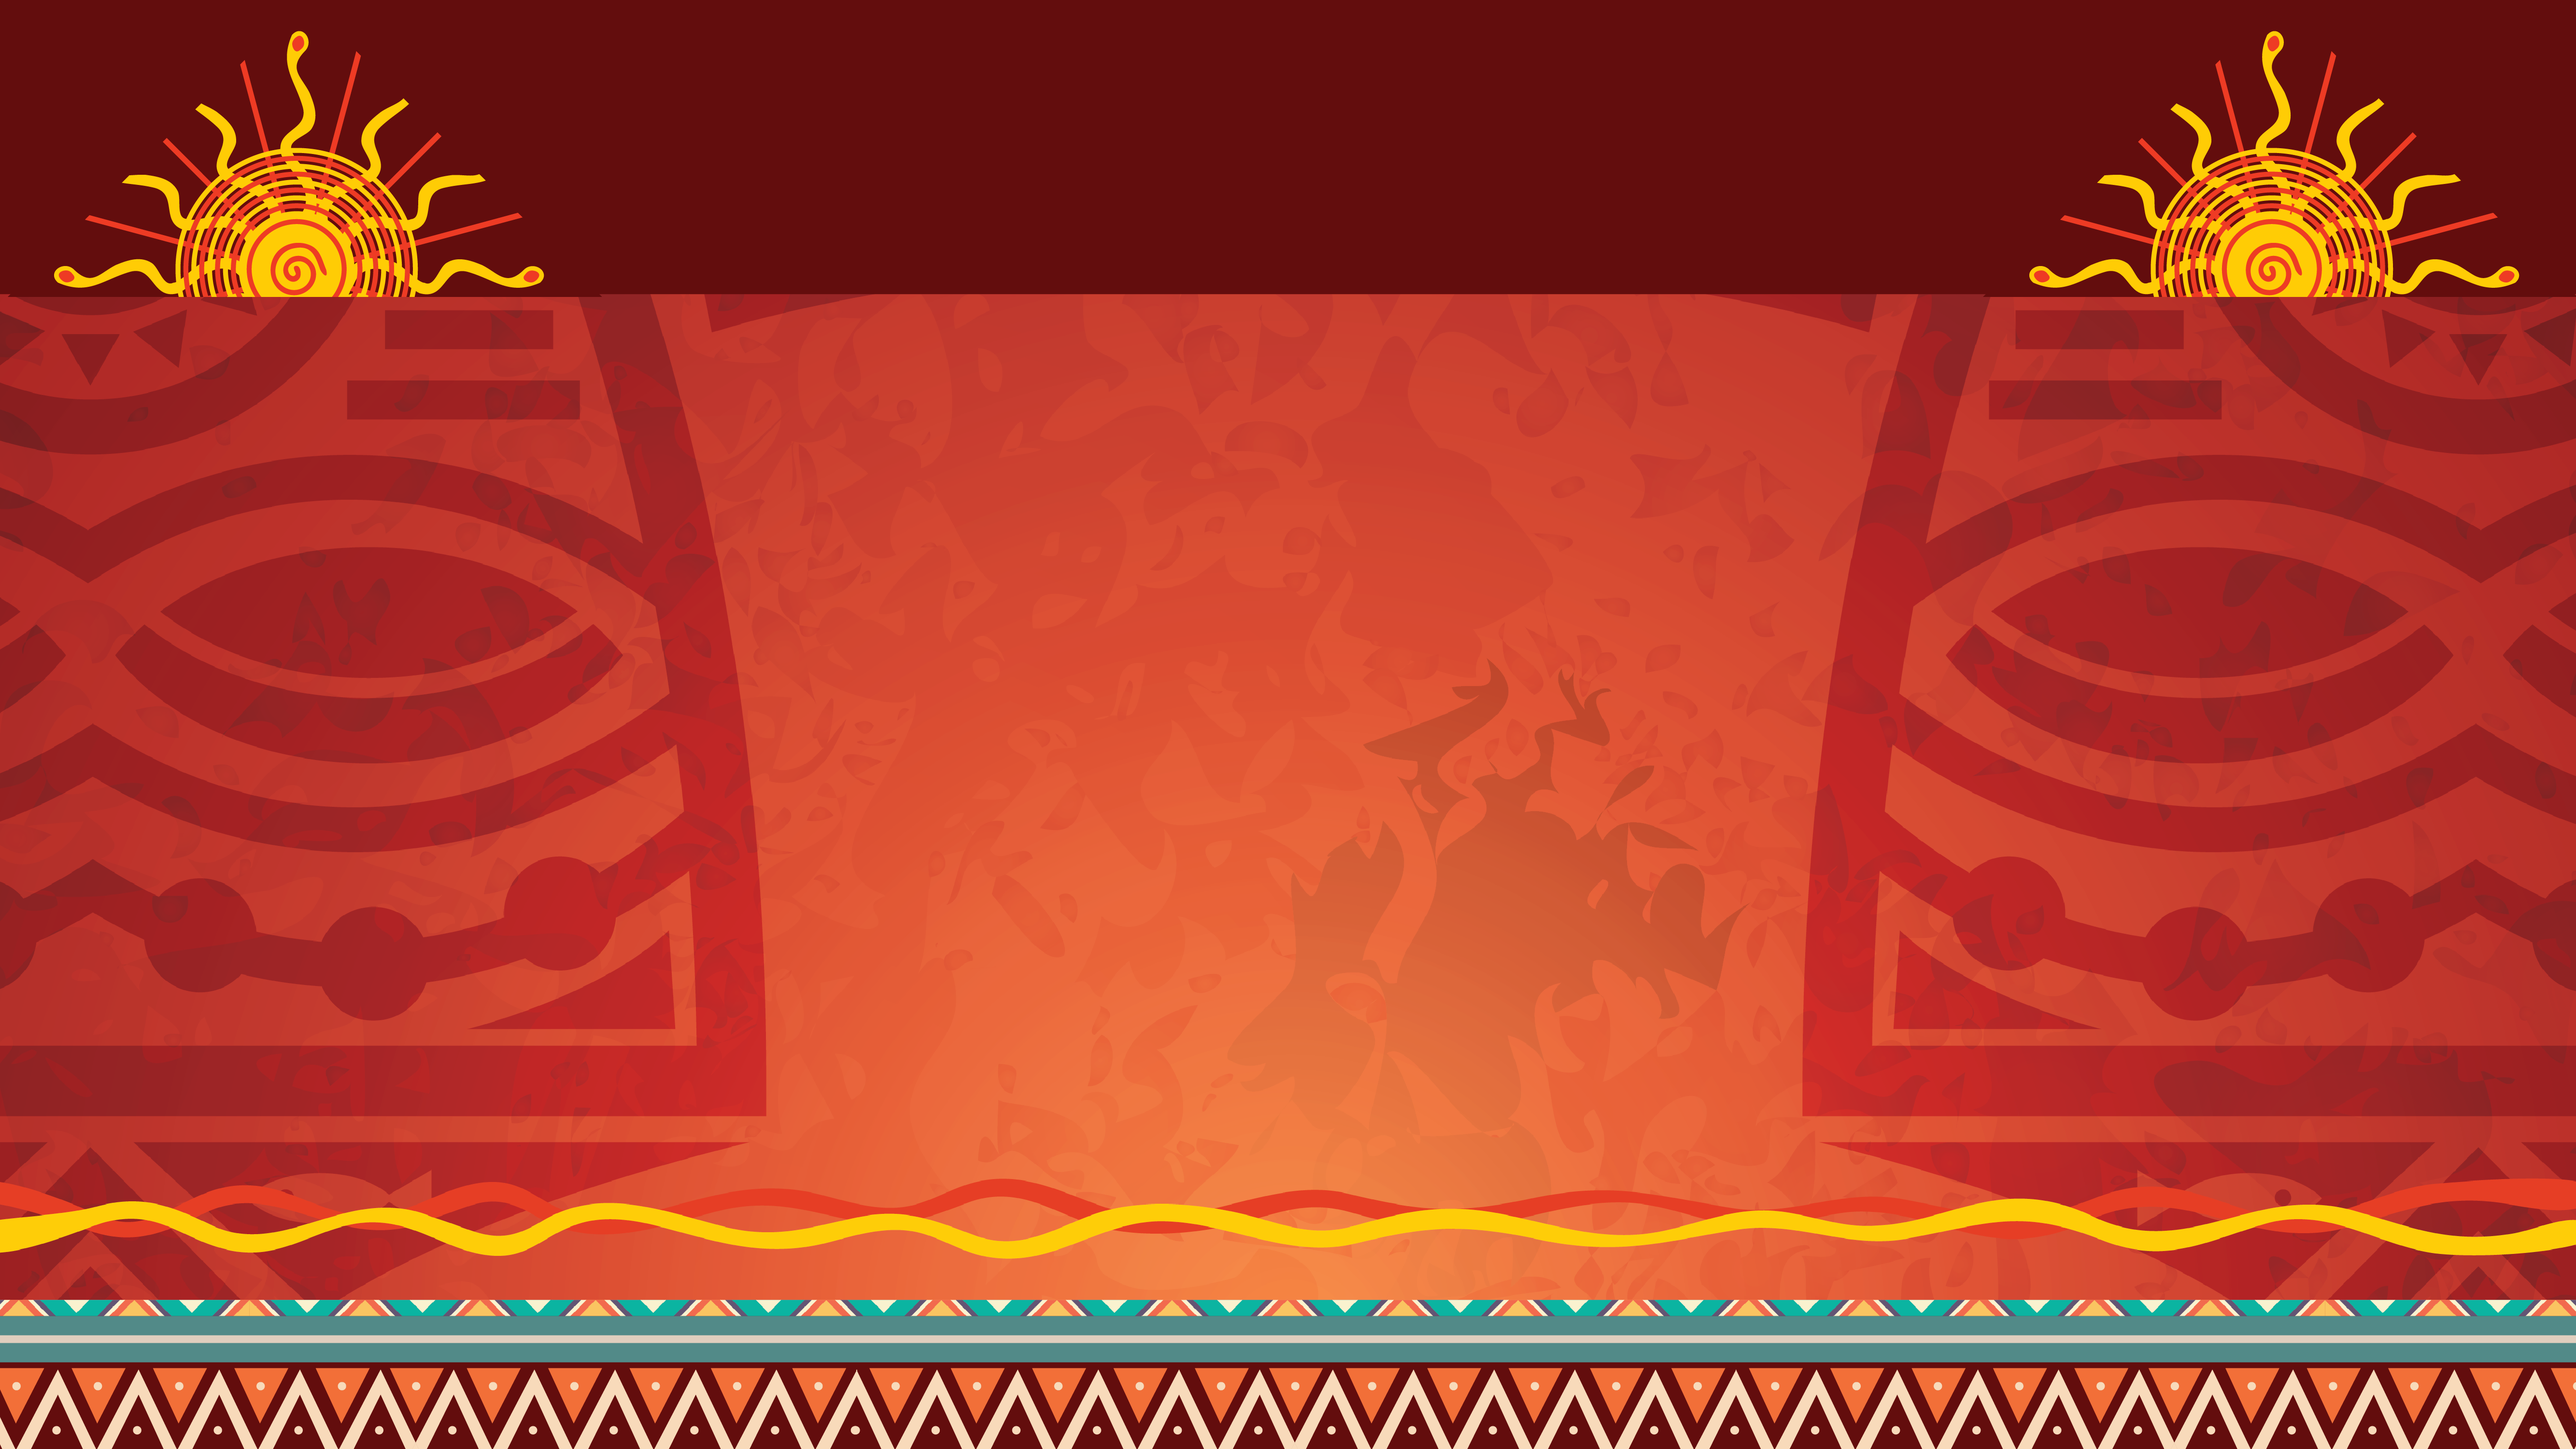
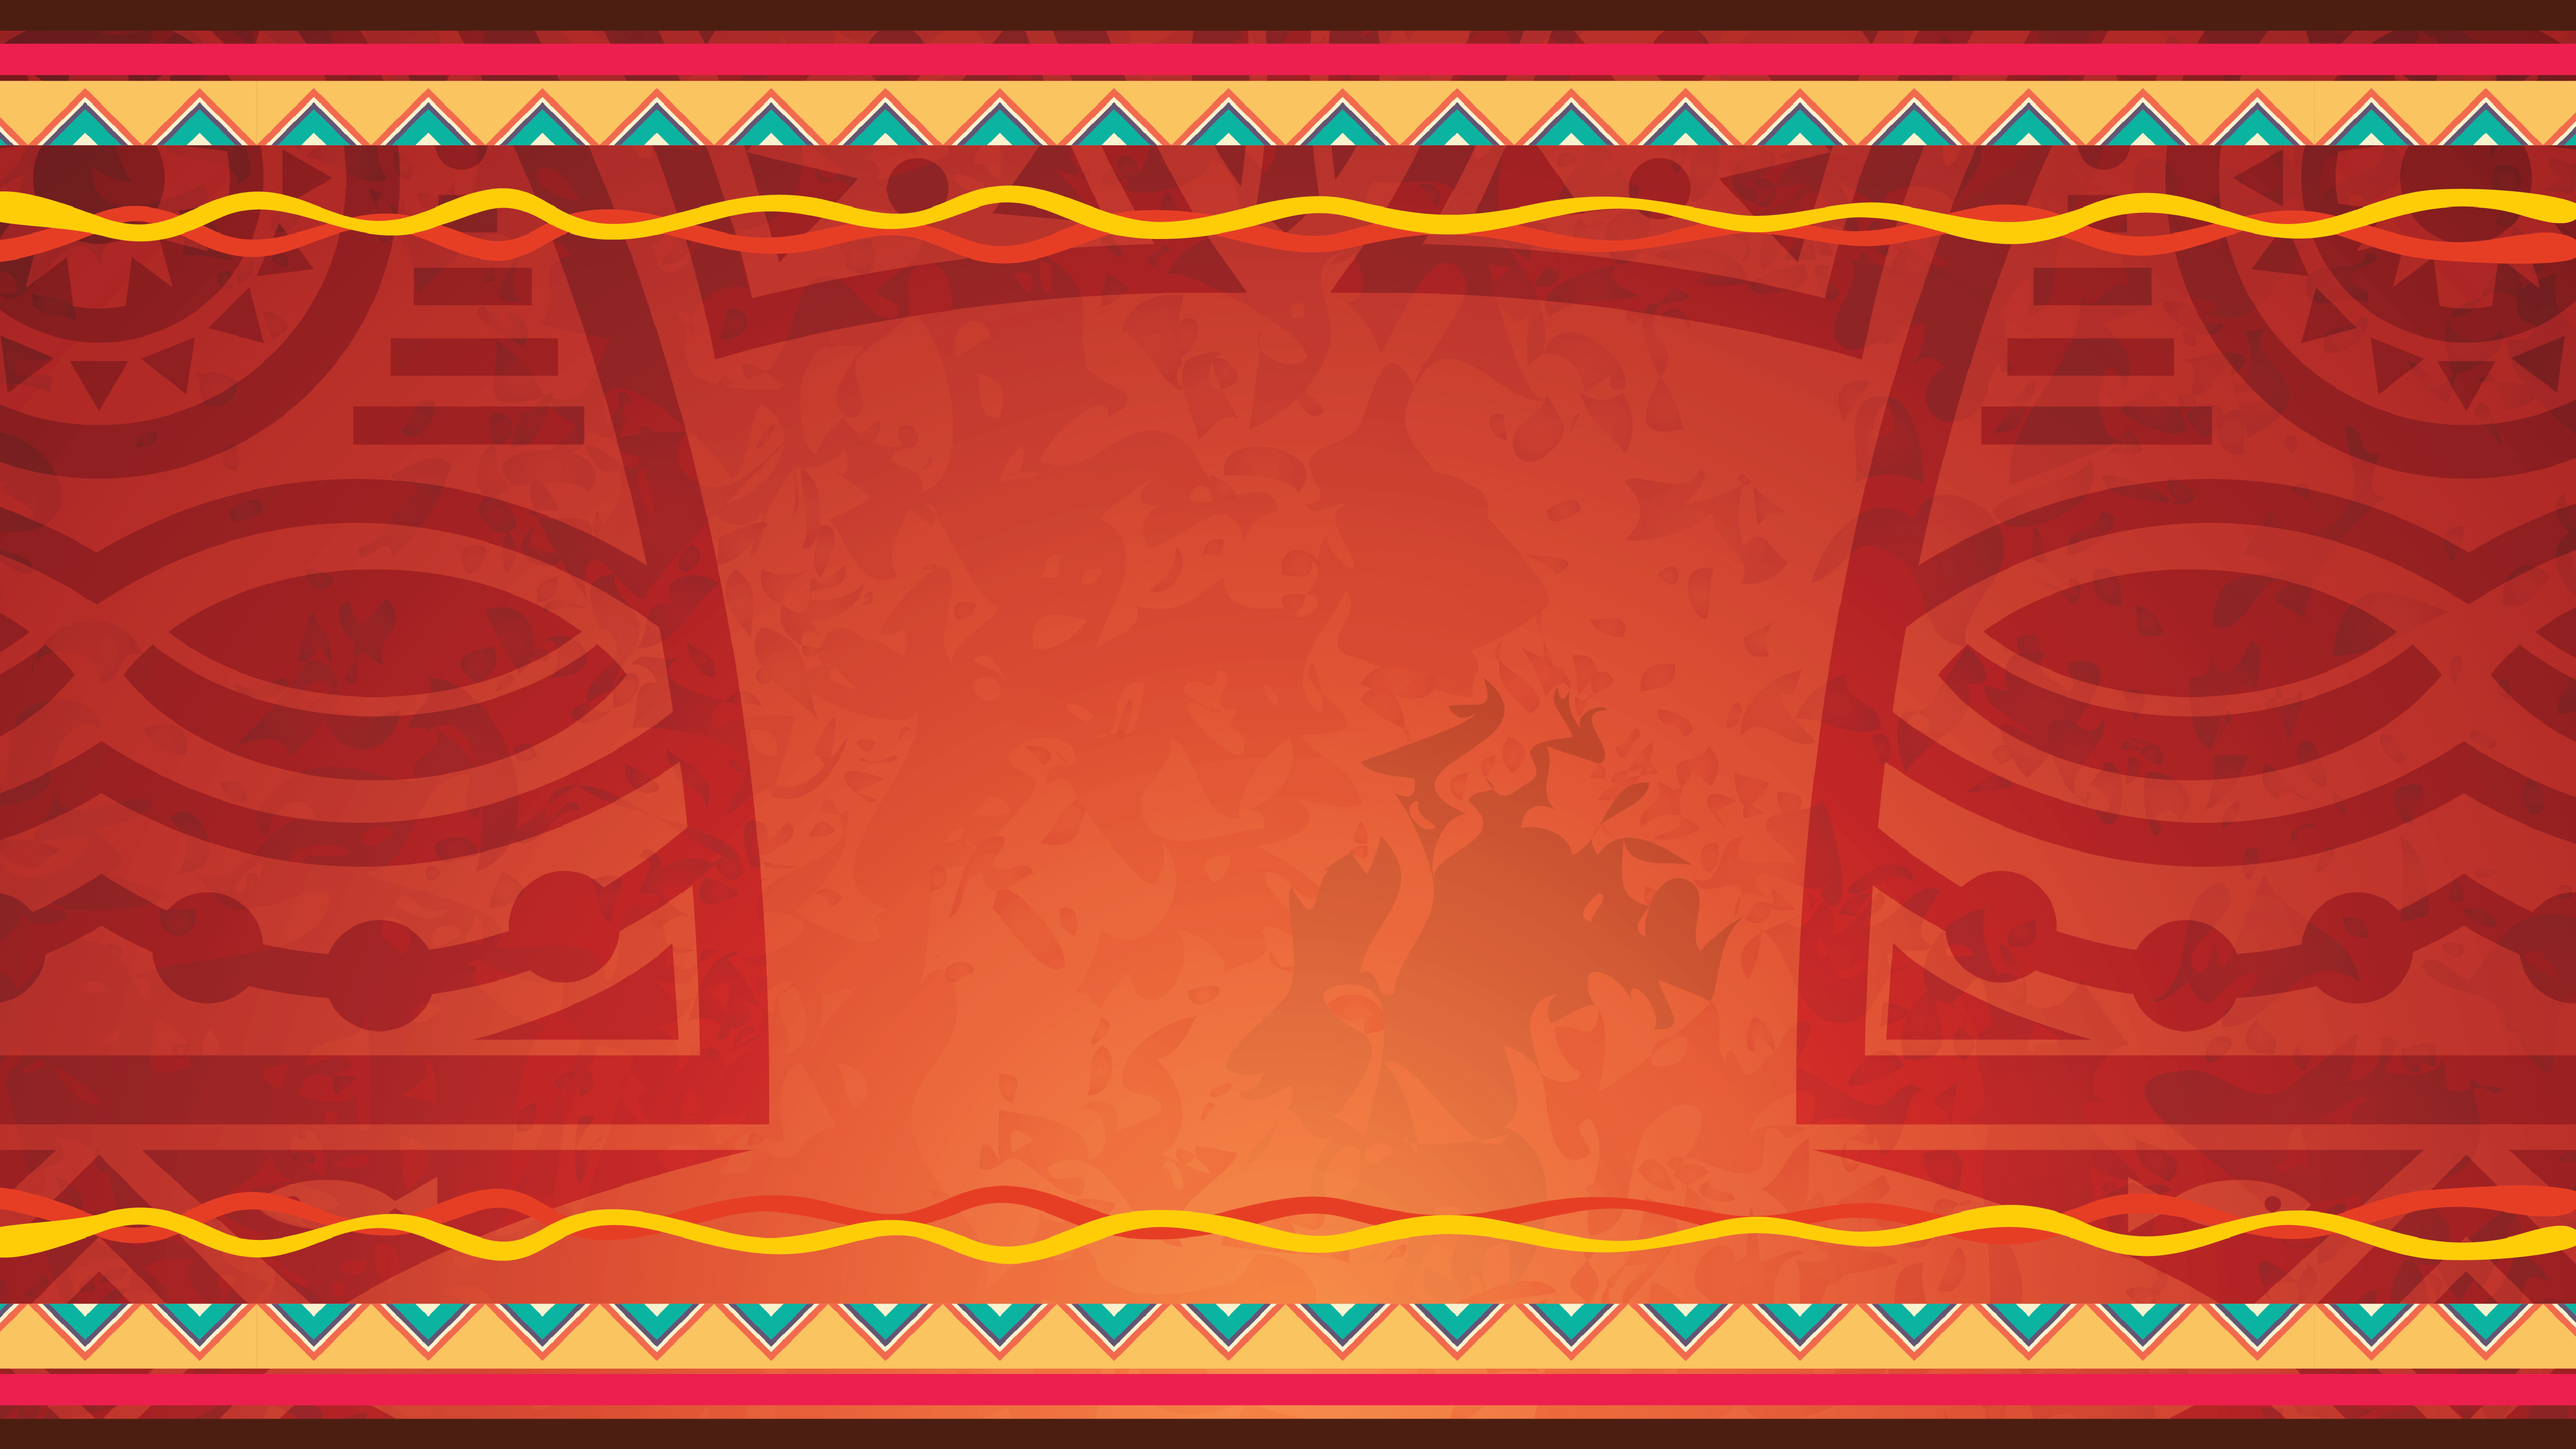
adjust new UI for registration

diff --git a/wwwroot/css/registration.css b/wwwroot/css/registration.css
@@ -1,65 +1,62 @@
 #registration {
-	/* background-color: #08070A;
-	background-color: #3c493c; */
 	height: 100%;
-	background-image: url("../images/background-registration-completion.png");
+	background-image: url("../images/background-registration-begin.png");
 	background-repeat: no-repeat;
 	background-size: cover;
-	/* background-size: 100%; */
+	background-size: 100% 100%;
 	text-align: center;
+	text-shadow: 3px 3px 2px rgba(0, 0, 0, 0.755);
 }
 
 #registration .image-logo {
-	width: 500px;
-	margin-top: 50px;
+	width: 60%;
+	margin-top: 10%;
 }
 
 #registration .middle-view {
-	position: absolute;
-	top: 30%;
-	z-index: 2000;
-	width: 100%;
-	background-color: #4A1F19;
+
 }
 
 .content-view {
-	width: 800px;
-	margin: 0px auto;
+	width: 80%;
+	margin: 30px auto;
 	height: auto;
 	overflow: auto;
-	
-	padding: 40px;
+	text-align: center;
 }
 
 /* 				(auto)	540px		720px		960px		1140px
 Class prefix	.col-	.col-sm-	.col-md-	.col-lg-	.col-xl- */
 
 .registration-input {
-	margin-top: -20px;
+	background-image: url("../images/background-input.png");
+	background-repeat: no-repeat;
+	background-size: cover;
+	padding: 20px 0px 40px 0px;
 }
 
 .registration-input .title {
 	font-size: 60px;
 	text-align: center;
-	color: #F5B64A;
-	margin-bottom: -10px;
+	color: #F3C046;
 	font-family: "Prompt-2";
 }
 
 .registration-input .title-input {
-	font-size: 20px;
+	font-size: 25px;
 	color: #fff;
 }
 
 .registration-input .input-code {
-	font-size: 40px;
-	color: #D54846;
+	font-size: 50px;
+	color: #D93A52;
 	margin: 30px 0px;
 	padding: 3px 0px 1px 0px;
 	text-align: center;
 	border-radius: 10px;
 	font-style: oblique;
-    letter-spacing: 3px;
+	letter-spacing: 3px;
+	width: 80%;
 }
 
 .registration-input .button {
@@ -67,58 +64,57 @@ Class prefix	.col-	.col-sm-	.col-md-	.col-lg-	.col-xl- */
 	text-align: center;
 	background-color: #8A8A8A;
 	color: #fff;
-	padding: 4px 30px;
+	padding: 3px 40px;
 	border: none;
 	border-radius: 30px;
 	text-transform: uppercase;
 }
 
 @media (max-width: 767.98px) { 
-	.middle-view {
-		top: 20%;
+	#registration .middle-view {
+
 	}
-	.content-view {
+	#registration .content-view {
 		width: 100%;
-		text-align: center;
 	}
-	.image-logo {
-		width: 300px;
-		margin-top: 0px;
-		position: initial;
-		margin-bottom: 20px;
+	#registration .image-logo {
+		width: 80%;
+		margin-top: 25%;
 	}
 	.registration-input .title {
-		margin-left: 0px;
+		font-size: 50px;
 	}
 	.registration-input .title-input {
-		font-size: 30px;
+		font-size: 20px;
 	}
 	.registration-input .input-code {
-		font-size: 30px;
+		font-size: 40px;
 	}
 	.registration-input .button {
-		margin-left: 0px;
+		
 	}
 }
 
-/* registration-result */
+/*********** registration-result ************/
 
 #registration-result {
 	background-image: url("../images/background-registration-completion.png");
 	background-repeat: no-repeat;
 	background-size: cover;
-	/* background-size: 100%; */
-	width: 100%;
+	background-size: 100% 100%;
 	height: 100%;
+	text-align: center;
+	text-shadow: 3px 3px 2px rgba(0, 0, 0, 0.755);
 }
 
 #registration-result .middle-view {
-	position: absolute;
-	top: 15%;
-	z-index: 2000;
-	width: 100%;
+	
 }
 
+#registration-result .image-logo {
+	width: 70%;
+	margin-top: 15%;
+}
 
 .registration-result {
 	margin-top: -20px;
@@ -126,19 +122,15 @@ Class prefix	.col-	.col-sm-	.col-md-	.col-lg-	.col-xl- */
 	
 }
 
-.registration-result .image-logo {
-	width: 400px;
-	margin-bottom: 20px;
-}
-
 .registration-result .title {
 	color:#fff;
 	font-size: 40px;
 	text-decoration: dotted;
+	margin-top: 30px;
 }
 
 .registration-result .name {
-	color:#EFB84A;
+	color:#F3C046;
 	font-size: 50px;
 }
 
@@ -153,32 +145,61 @@ Class prefix	.col-	.col-sm-	.col-md-	.col-lg-	.col-xl- */
 	background-repeat: no-repeat;
 	background-size: cover;
 	background-size: 100% 100%;
-	width: 100%;
-	margin-top: -70px;
+	width: 80%;
+	margin: -40px auto;
 }
 
 .box-result-remark .result-remark {
-	color:#533127;
-	font-size: 25px;
+	color:#5D1A17;
+	font-size: 22px;
 	text-align: center;
-	padding: 80px 100px;
+	padding: 40px 20px 30px 0px;
 	width: 100%;
+	text-shadow: none;
+	
 }
 
 @media (max-width: 767.98px) {
+	#registration-result .middle-view {
+
+	}
+	#registration-result .content-view {
+		width: 100%;
+	}
+	#registration-result .image-logo {
+		width: 80%;
+		margin-top: 30%;
+	}
+
 	.registration-result .title {
-		text-align: center;
+		font-size: 40px;
 	}
 
 	.registration-result .name {
-		text-align: center;
+		font-size: 40px;
+	}
+
+	.registration-result .table {
+		font-size: 30px;
 	}
 
 	.box-result-remark {
-		margin-top: -70px;
+		width: 100%;
+		margin-top: -40px;
 	}
 
 	.box-result-remark .result-remark {
-		font-size: 25px;
+		font-size: 20px;
 	}
+}
+
+input::-webkit-outer-spin-button,
+input::-webkit-inner-spin-button {
+  -webkit-appearance: none;
+  margin: 0;
+}
+
+/* Firefox */
+input[type=number] {
+  -moz-appearance: textfield;
 }

diff --git a/Controllers/RegistrationController.cs b/Controllers/RegistrationController.cs
@@ -41,16 +41,17 @@ namespace web_registration.Controllers
         [HttpPost] 
         public IActionResult Completion(Attendee model)
         {
-            var attendee = _attendeeProvider.GetAttendee(model.code, null);
+            // var attendee = _attendeeProvider.GetAttendee(model.code, null);
 
-            if (attendee == null) {
-                return Redirect("/registration?e=o");
-            } else if (attendee.isChecked ?? false) {
-                return Redirect("/registration?e=d");
-            } else {
-                _attendeeProvider.Checkin(model.code);
-                return View("Completion", attendee);
-            }
+            // if (attendee == null) {
+            //     return Redirect("/registration?e=o");
+            // } else if (attendee.isChecked ?? false) {
+            //     return Redirect("/registration?e=d");
+            // } else {
+            //     _attendeeProvider.Checkin(model.code);
+            model.nameTH = "นางสาวเพ็ญ บุญคำ";
+                return View("Completion", model);
+            // }
         }
     }
 }
